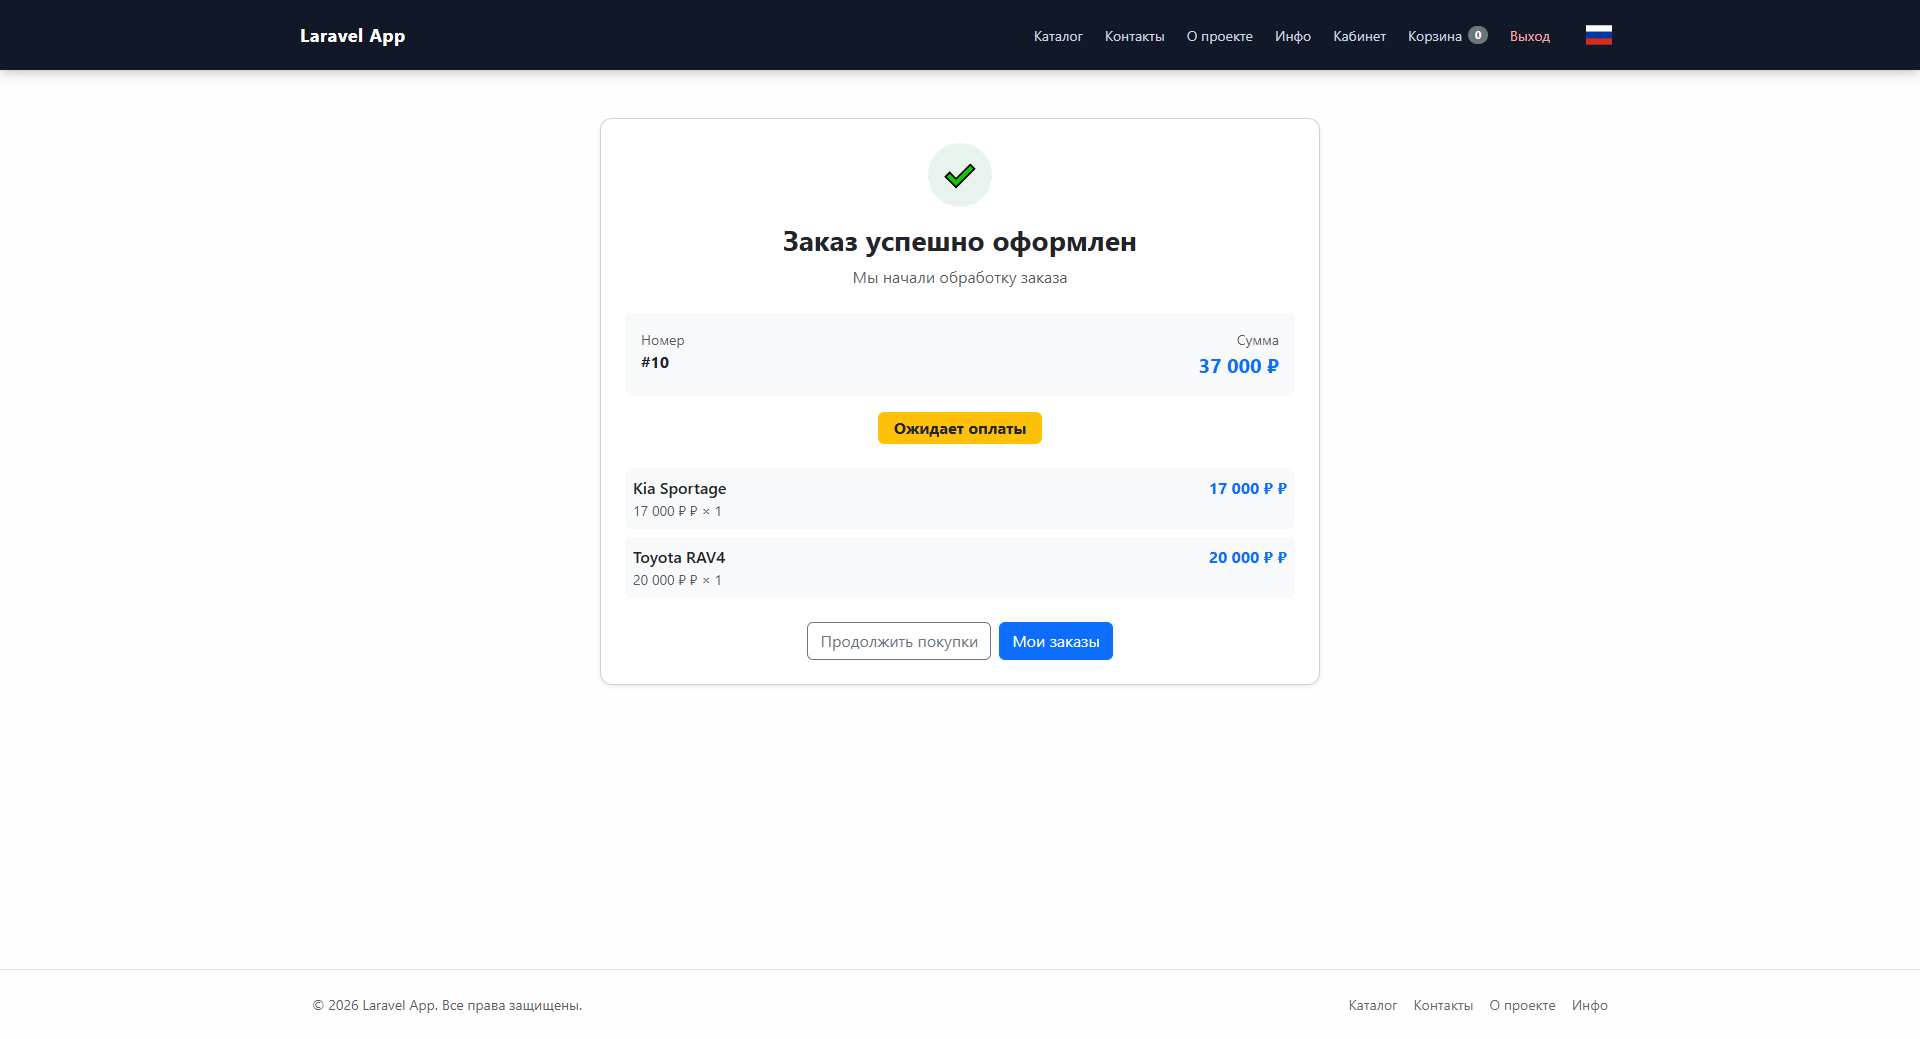
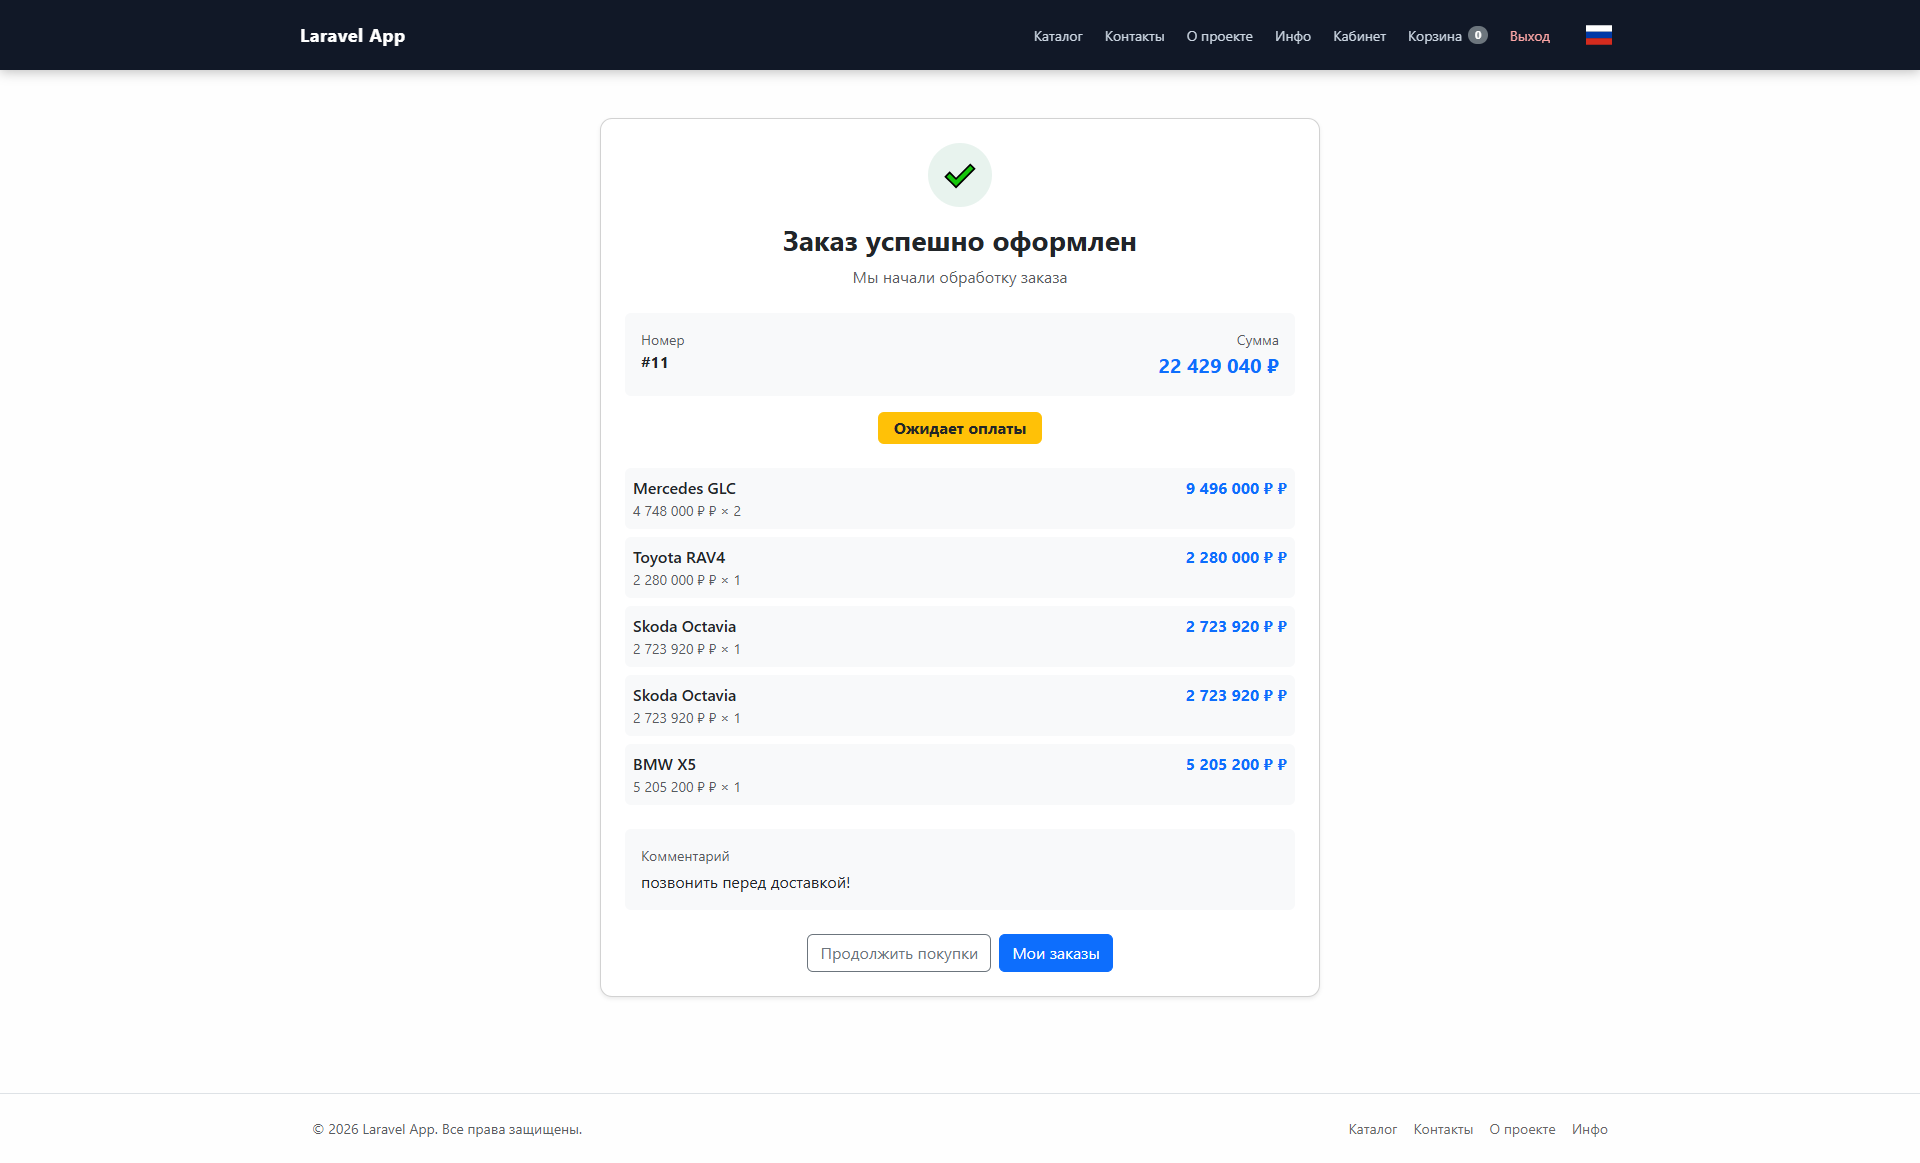
-

diff --git a/frontend/components/modals/auth/LoginModal.vue b/frontend/components/modals/auth/LoginModal.vue
@@ -1,6 +1,5 @@
 <script setup lang="ts">
-
-import {ref, watch, computed} from 'vue'
+import {ref, watch, computed, onBeforeUnmount} from 'vue'
 import {useI18n} from 'vue-i18n'
 
 import BaseButton from '~/components/ui/base/BaseButton.vue'
@@ -26,6 +25,51 @@ const password = ref('')
 
 const isLocked = computed(() => Boolean(props.processing))
 
+let scrollY = 0
+let prevHtmlOverflow = ''
+let prevBodyOverflow = ''
+let prevBodyPosition = ''
+let prevBodyTop = ''
+let prevBodyWidth = ''
+
+const lockScroll = () => {
+    if (!import.meta.client) return
+
+    const html = document.documentElement
+    const body = document.body
+
+    scrollY = window.scrollY || window.pageYOffset || 0
+
+    prevHtmlOverflow = html.style.overflow
+    prevBodyOverflow = body.style.overflow
+    prevBodyPosition = body.style.position
+    prevBodyTop = body.style.top
+    prevBodyWidth = body.style.width
+
+    html.style.overflow = 'hidden'
+    html.style.overscrollBehavior = 'none'
+    body.style.overflow = 'hidden'
+    body.style.position = 'fixed'
+    body.style.top = `-${scrollY}px`
+    body.style.width = '100%'
+}
+
+const unlockScroll = () => {
+    if (!import.meta.client) return
+
+    const html = document.documentElement
+    const body = document.body
+
+    html.style.overflow = prevHtmlOverflow
+    html.style.overscrollBehavior = ''
+    body.style.overflow = prevBodyOverflow
+    body.style.position = prevBodyPosition
+    body.style.top = prevBodyTop
+    body.style.width = prevBodyWidth
+
+    window.scrollTo(0, scrollY)
+}
+
 const close = () => {
     if (isLocked.value) {
         return
@@ -43,29 +87,36 @@ const confirm = () => {
     })
 }
 
-watch(() => props.show, (show) => {
-    if (!show) {
-        return
-    }
-    email.value = ''
-    password.value = ''
-})
+watch(
+    () => props.show,
+    (show) => {
+        if (show) {
+            email.value = ''
+            password.value = ''
+            lockScroll()
+        } else {
+            unlockScroll()
+        }
+    },
+    { immediate: true }
+)
 
+onBeforeUnmount(() => {
+    unlockScroll()
+})
 </script>
 
 <template>
     <div
         v-if="show"
-        class="modal fade show d-block"
+        class="modal fade show d-block modal-backdrop-fix"
         tabindex="-1"
-        style="background: rgba(0,0,0,.6);"
         @click.self="close"
     >
         <div class="modal-dialog modal-dialog-centered">
             <div class="modal-content">
 
                 <div class="modal-header">
-
                     <h5 class="modal-title">
                         {{ t('modals.auth.loginTitle') }}
                     </h5>
@@ -77,11 +128,9 @@ watch(() => props.show, (show) => {
                         aria-label="Close"
                         @click="close"
                     />
-
                 </div>
 
                 <div class="modal-body">
-
                     <div
                         v-if="errors?.general"
                         class="alert alert-danger"
@@ -90,7 +139,6 @@ watch(() => props.show, (show) => {
                     </div>
 
                     <form @submit.prevent="confirm">
-
                         <BaseInput
                             v-model="email"
                             type="email"
@@ -120,12 +168,18 @@ watch(() => props.show, (show) => {
                             </template>
                             {{ t('modals.auth.login') }}
                         </BaseButton>
-
                     </form>
-
                 </div>
 
             </div>
         </div>
     </div>
 </template>
+
+<style scoped>
+.modal-backdrop-fix {
+    background: rgba(0, 0, 0, .6);
+    touch-action: none;
+    overscroll-behavior: none;
+}
+</style>

diff --git a/README.md b/README.md
@@ -33,7 +33,40 @@
 Полноценный каталог автомобилей с карточками, изображениями, характеристиками и переходом к детальной странице автомобиля.
 
 ![Каталог](frontend/public/images/screenshots/laravel-catalog.png?v=1.1)
+![Каталог](frontend/public/images/screenshots/laravel-catalog-login.png?v=1.1)
 ![Каталог](frontend/public/images/screenshots/laravel-catalog-auth.png?v=1.1)
+![Каталог](frontend/public/images/screenshots/laravel-catalog-car.png?v=1.0)
+
+---
+
+# Корзина
+
+Поддерживается:
+
+* добавление товаров;
+* изменение количества;
+* удаление товаров;
+* оформление заказа;
+* модальные окна подтверждения действий.
+
+![Корзина](frontend/public/images/screenshots/laravel-cart.png?v=1.1)
+
+---
+
+# Заказы
+
+История оформленных заказов пользователя.
+
+![Заказы](frontend/public/images/screenshots/laravel-orders.png?v=1.0)
+![Заказы](frontend/public/images/screenshots/laravel-order-success.png?v=1.0)
+
+---
+
+# Детальная информация о заказе
+
+Страница просмотра конкретного заказа с товарами и общей информацией.
+
+![Информация о заказе](frontend/public/images/screenshots/laravel-order-info.png?v=1.1)
 
 ---
 
@@ -58,39 +91,9 @@
 
 ---
 
-# Корзина
-
-Поддерживается:
-
-* добавление товаров;
-* изменение количества;
-* удаление товаров;
-* оформление заказа;
-* модальные окна подтверждения действий.
-
-![Корзина](frontend/public/images/screenshots/laravel-cart.png?v=1.0)
-
----
-
-# Заказы
-
-История оформленных заказов пользователя.
-
-![Заказы](frontend/public/images/screenshots/laravel-orders.png?v=1.0)
-
----
-
-# Детальная информация о заказе
-
-Страница просмотра конкретного заказа с товарами и общей информацией.
-
-![Информация о заказе](frontend/public/images/screenshots/laravel-order-info.png?v=1.0)
-
----
-
 # Контакты
 
-Контактная форма для обратной связи.
+Контактная форма для обратной связи с возможностью блокировки по IP и таймером обратного отсчета.
 
 ![Контакты](frontend/public/images/screenshots/laravel-contacts.png?v=1.0)
 